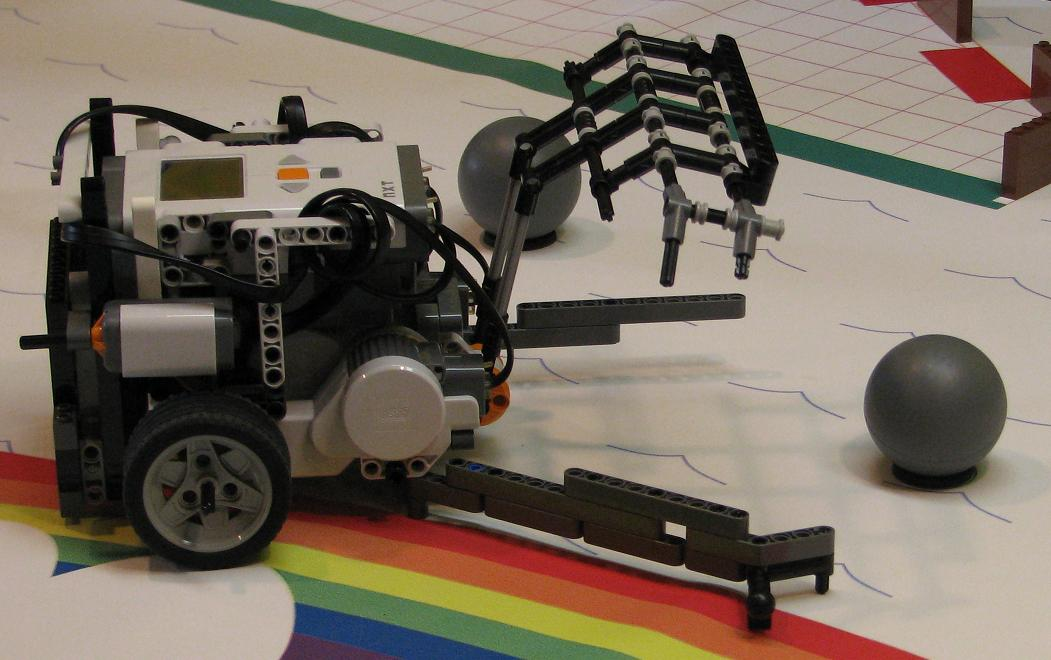
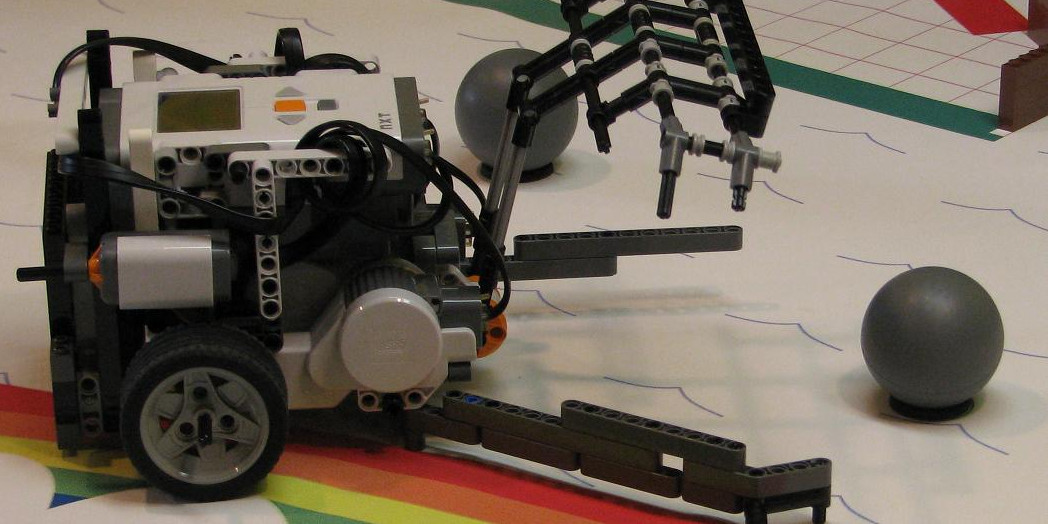
Updated ui and some images

diff --git a/index.html b/index.html
@@ -745,7 +745,7 @@ float : right;
                     <div class="item col-md-6 col-lg-4">
                         <div id="roboClencher" class="thumbnail card">
                             <div class="img-event">
-                                <img class="group list-group-image img-fluid" src="images/bot.jpg" alt="" />
+                                <img class="group list-group-image img-fluid" src="images/clench.jpg" alt="" />
                             </div>
                             <div class="caption card-body">
                                 <h4 class="group card-title inner list-group-item-heading">

diff --git a/css/style.css b/css/style.css
@@ -384,7 +384,7 @@ h3.agile-title {
 
 #schedule .event-card {
     box-shadow: 0 0 10px #010101;
-    background: #000;
+    background: rgba(0, 0, 0, 0.5);
     padding: 10px 21px;
     font-size: 1.2em;
     color: #aaa;
@@ -462,8 +462,9 @@ a.btn-agile span {
 }
 
 .card {
-    background-color: #000;
-    box-shadow: none;
+    background-color: rgba(0, 0, 0, 0.4);
+    box-shadow: none !important; 
+    min-height: 700px;
 }
 
 .contact-me {
@@ -1298,7 +1299,7 @@ textarea {
 
 @media screen and (max-width: 600px) {
     #schedule {
-        font-size: 2.5vw;
+        font-size: 3.5vw;
     }
 }
 

diff --git a/css/gridview.css b/css/gridview.css
@@ -74,7 +74,6 @@ p.group.inner.list-group-item-text {
     -moz-border-radius: 0px;
     border-radius: 0px;
     border: none;
-    box-shadow: 0 0 16px #428bca;
 }
 
 .item.list-group-item {
